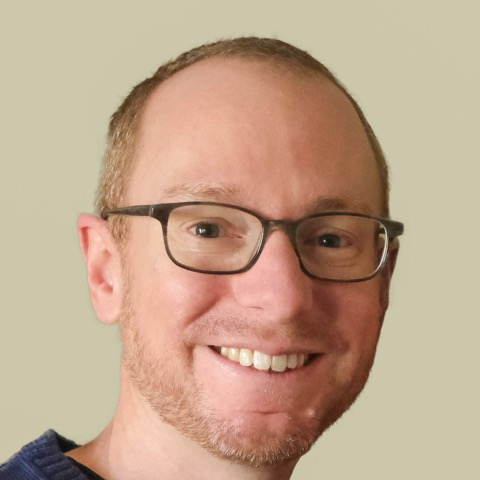
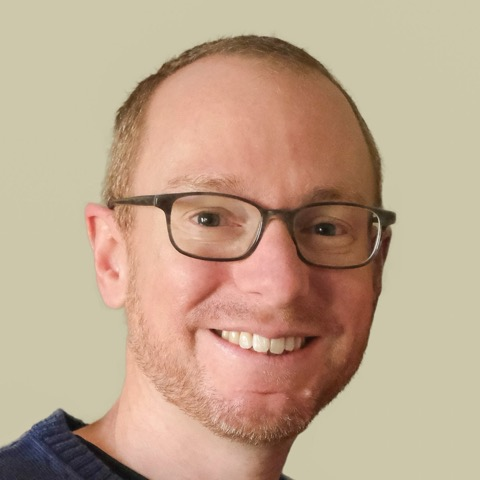
More room under the chin; top-align the portrait with the name
Claude-Session: https://claude.ai/code/session_01T2Xqam6xwnLrwGp6b8Jfy3

diff --git a/public/index.css b/public/index.css
@@ -132,15 +132,18 @@ a:hover {
     height:auto;
     margin-bottom:1.5em;
     display:flex;
-    align-items:center;
+    align-items:flex-start;
     gap:1.25em;
 }
 
+/* Top-aligned with the text block; the margin nudges the image down to meet
+   the cap height of the h1 (the line box carries leading above the glyphs). */
 .header .portrait {
     width:110px;
     height:110px;
     border-radius:22%;
     flex-shrink:0;
+    margin-top:0.5em;
 }
 
 .header-text p {
